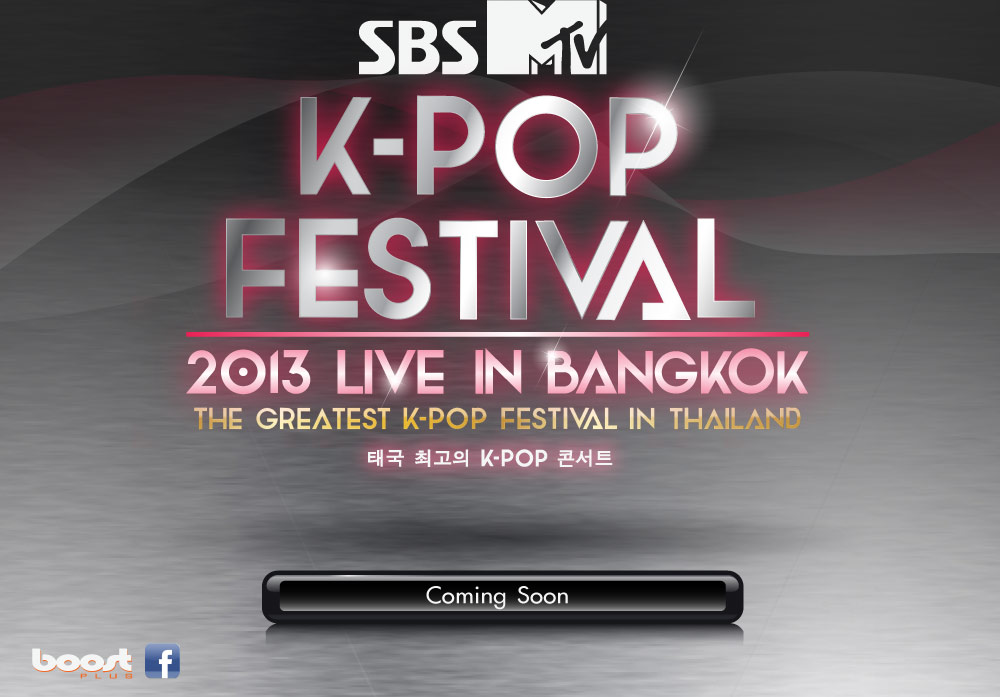
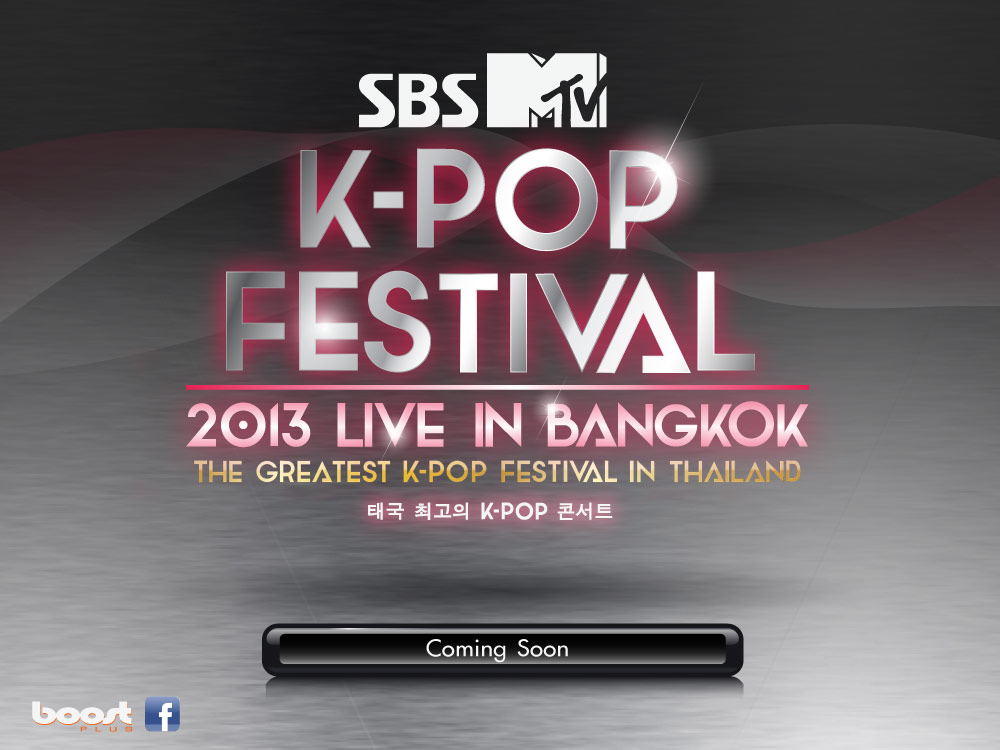
index

Changed region(s): [[0.186, 0.0, 0.961, 0.7532], [0.248, 0.7532, 0.744, 0.934], [0.031, 0.9039, 0.186, 0.9943]]

diff --git a/css/style.css b/css/style.css
@@ -52,6 +52,17 @@ form input {
 }
 /* end index */
 
+/* index-comingsoon */
+.page-index-coming-soon { height:750px; }
+.page-index-coming-soon #content {
+	width:1000px; height:750px; background:transparent url('../images/index/bg-coming-soon.jpg') no-repeat;
+}
+.page-index-coming-soon #content ul#coming-soon-menu { margin:0px; padding:0px; list-style:none; width:148px; position:absolute; bottom:18px; left:32px; }
+.page-index-coming-soon #content a { display:block; height:36px; float:left; }
+.page-index-coming-soon #content a.b-boost { width:101px; }
+.page-index-coming-soon #content a.b-facebook { width:36px; margin-left:11px; }
+/* end index-comingsoon */
+
 /* login */
 .page-login { height:750px; }
 
